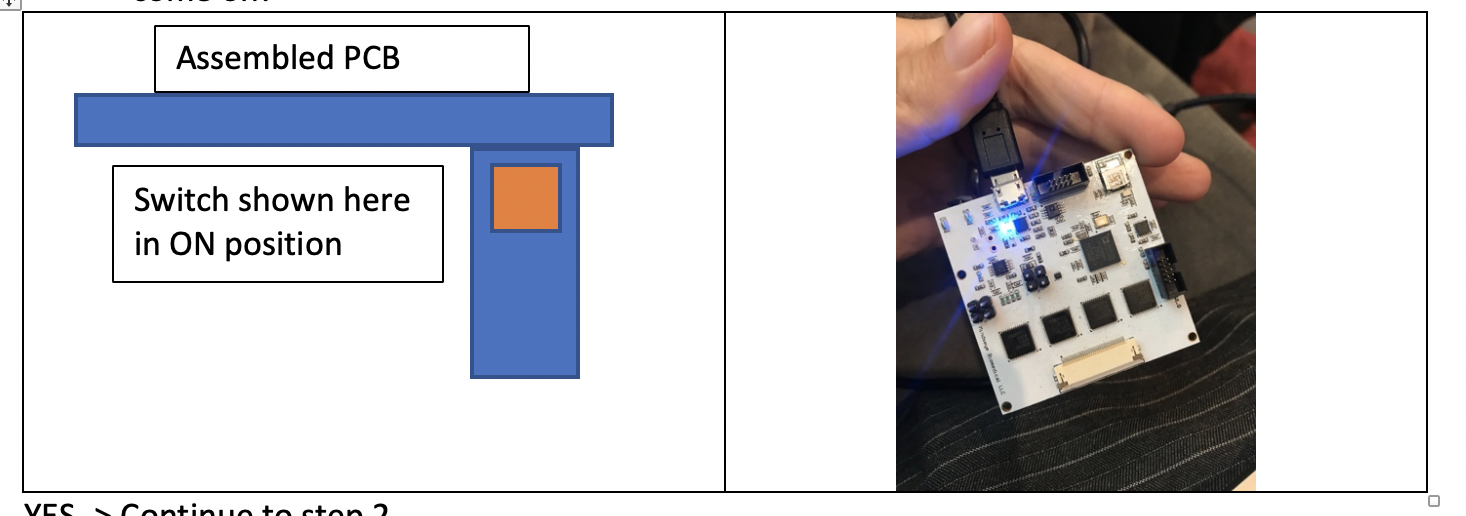
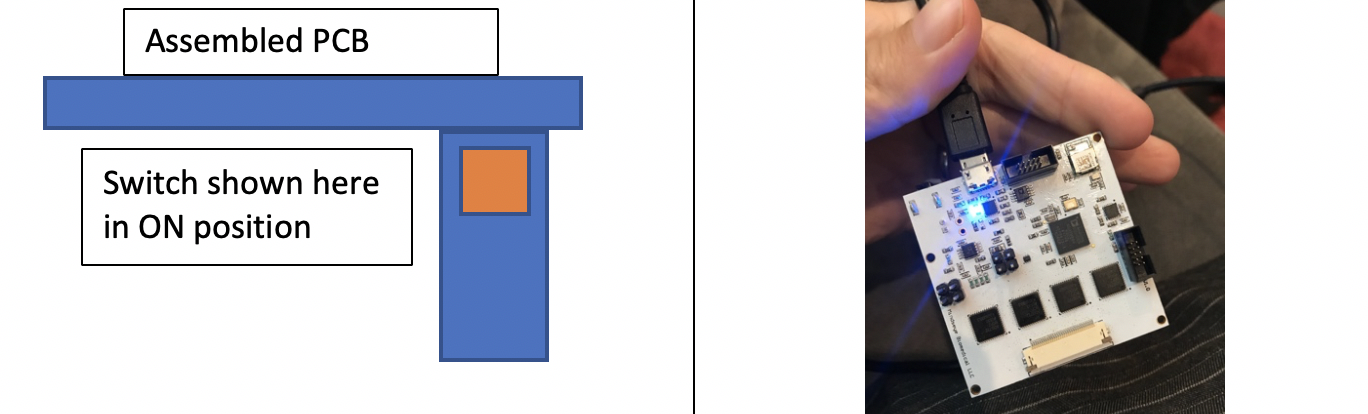
on position image

diff --git a/README.md b/README.md
@@ -36,7 +36,7 @@ pip freeze
 Plug in your microUSB cable if using with serial, then make sure that switch is turned on. Bluetooth and serial comms should now be active. 
 
 <p align="center">
-	<img src="images/on_position.png" height="400">
+	<img src="images/on_position.png" height="300">
 </p>
 
 
